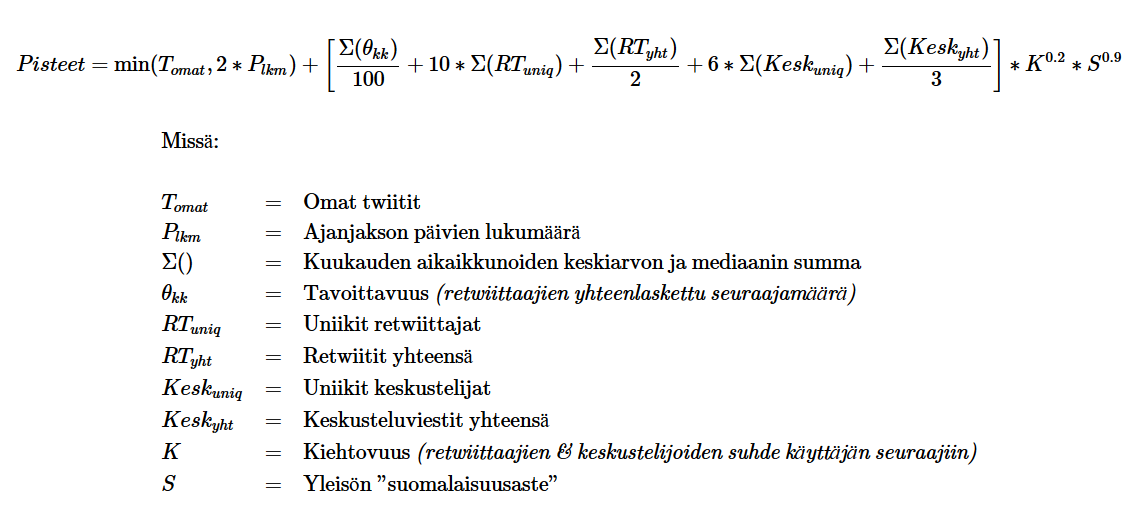
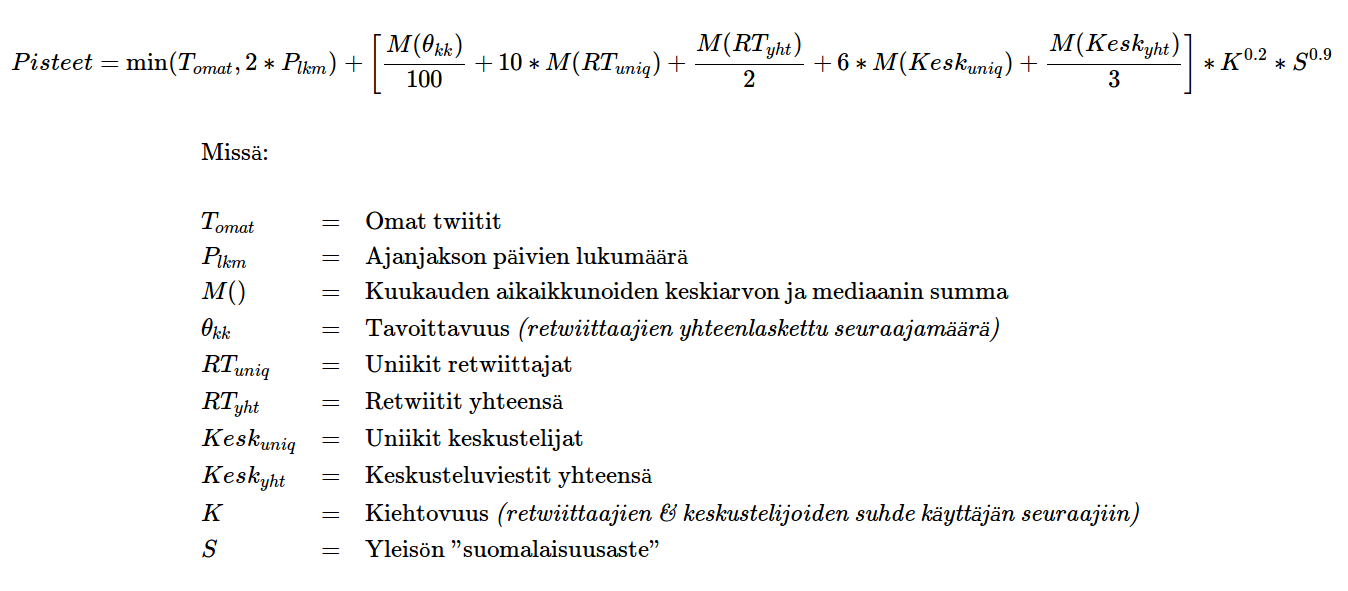
Publish 2016-05-02-suomi-twitterin-top-200-vaikuttajat.html

diff --git a/_posts/2016-05-02-suomi-twitterin-top-200-vaikuttajat.html b/_posts/2016-05-02-suomi-twitterin-top-200-vaikuttajat.html
@@ -1,7 +1,7 @@
 ---
 layout: post
 title: "Suomi-Twitterin TOP-200 vaikuttajat"
-date: 2016-05-02T08:27:00+0300
+date: 2016-05-02T10:40:00+0300
 post_language: fi
 custom_page_js: suomi-twitterin-top-200-vaikuttajat-2016-05.js
 custom_page_css: suomi-twitterin-top-200-vaikuttajat-2016-05.css
@@ -13,7 +13,7 @@ meta_description: |
   Yksityishenkilöistä kärjessä ovat @svuorikoski, @TuomasEnbuske, @EskoSeppanen, @VilleNiinisto ja @nastynapalm.
 titleCover: "top-200-vaikuttajat.cover.jpg"
 titleStyle: "min-height: 250px;"
-published: true
+meta_image: "top-200-vaikuttajat.meta.jpg"
 ---
 
 <p>
@@ -100,9 +100,9 @@ https://cdn.mathjax.org/mathjax/latest/test/sample-dynamic.html
 ----------------------------------------------------------------------------------
 \displaystyle Pisteet = \min(T_{omat}, 2*P_{lkm}) +
 \left[
-\frac{\Sigma(\theta_{kk})}{100} +
-10*\Sigma(RT_{uniq}) + \frac{\Sigma(RT_{yht})}{2} +
-6*\Sigma(Kesk_{uniq}) + \frac{\Sigma(Kesk_{yht})}{3}
+\frac{M(\theta_{kk})}{100} +
+10*M(RT_{uniq}) + \frac{M(RT_{yht})}{2} +
+6*M(Kesk_{uniq}) + \frac{M(Kesk_{yht})}{3}
 \right]
 * K^{0.2} * S^{0.9} \\\\
 
@@ -110,7 +110,7 @@ https://cdn.mathjax.org/mathjax/latest/test/sample-dynamic.html
 \text{Missä:}\\\\
 T_{omat}    & = & \text{Omat twiitit} \\
 P_{lkm}     & = & \text{Ajanjakson päivien lukumäärä } \\
-\Sigma()    & = & \text{Kuukauden aikaikkunoiden keskiarvon ja mediaanin summa} \\
+M()         & = & \text{Kuukauden aikaikkunoiden keskiarvon ja mediaanin summa} \\
 \theta_{kk} & = & \text{Tavoittavuus } \textit{(retwiittaajien yhteenlaskettu seuraajamäärä)} \\
 RT_{uniq}   & = & \text{Uniikit retwiittajat }  \\
 RT_{yht}    & = & \text{Retwiitit yhteensä } \\
